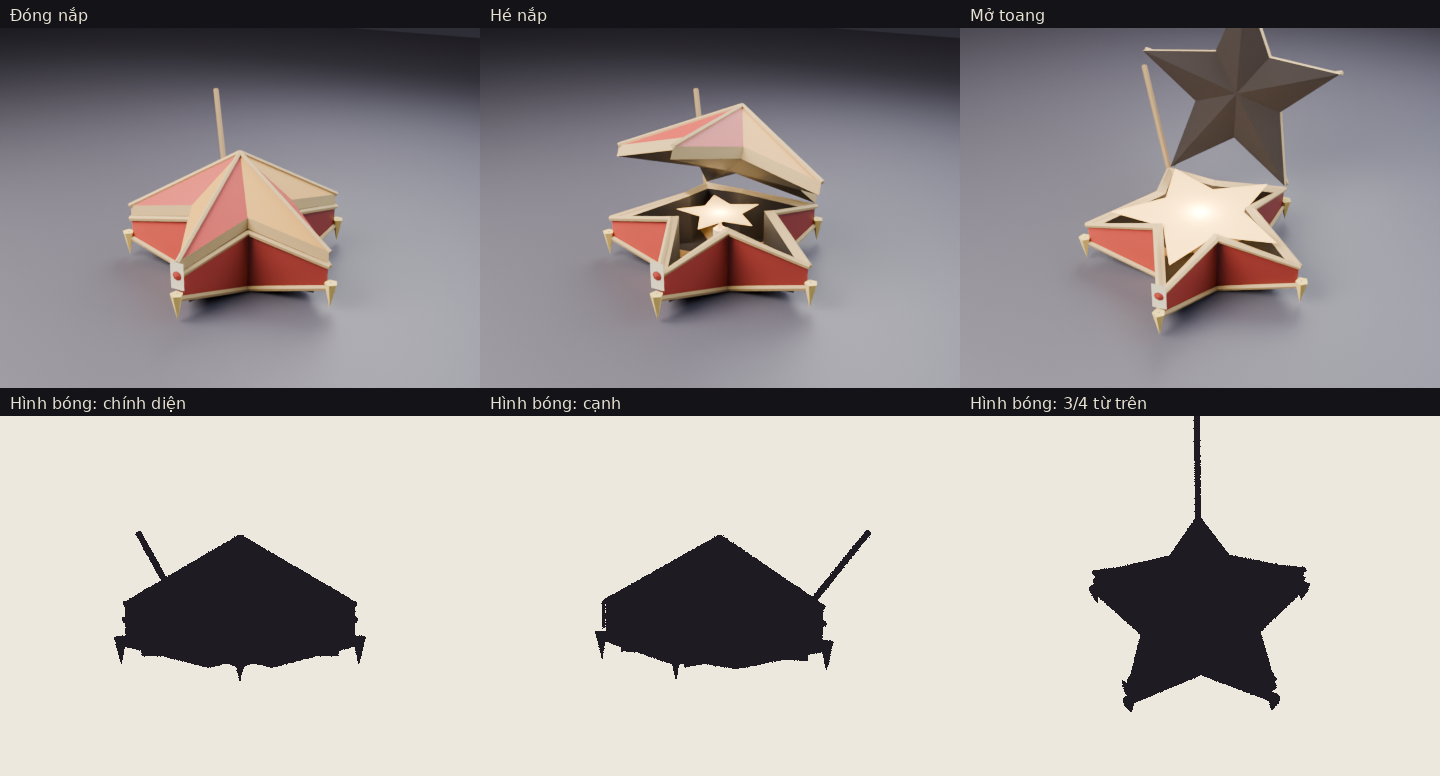
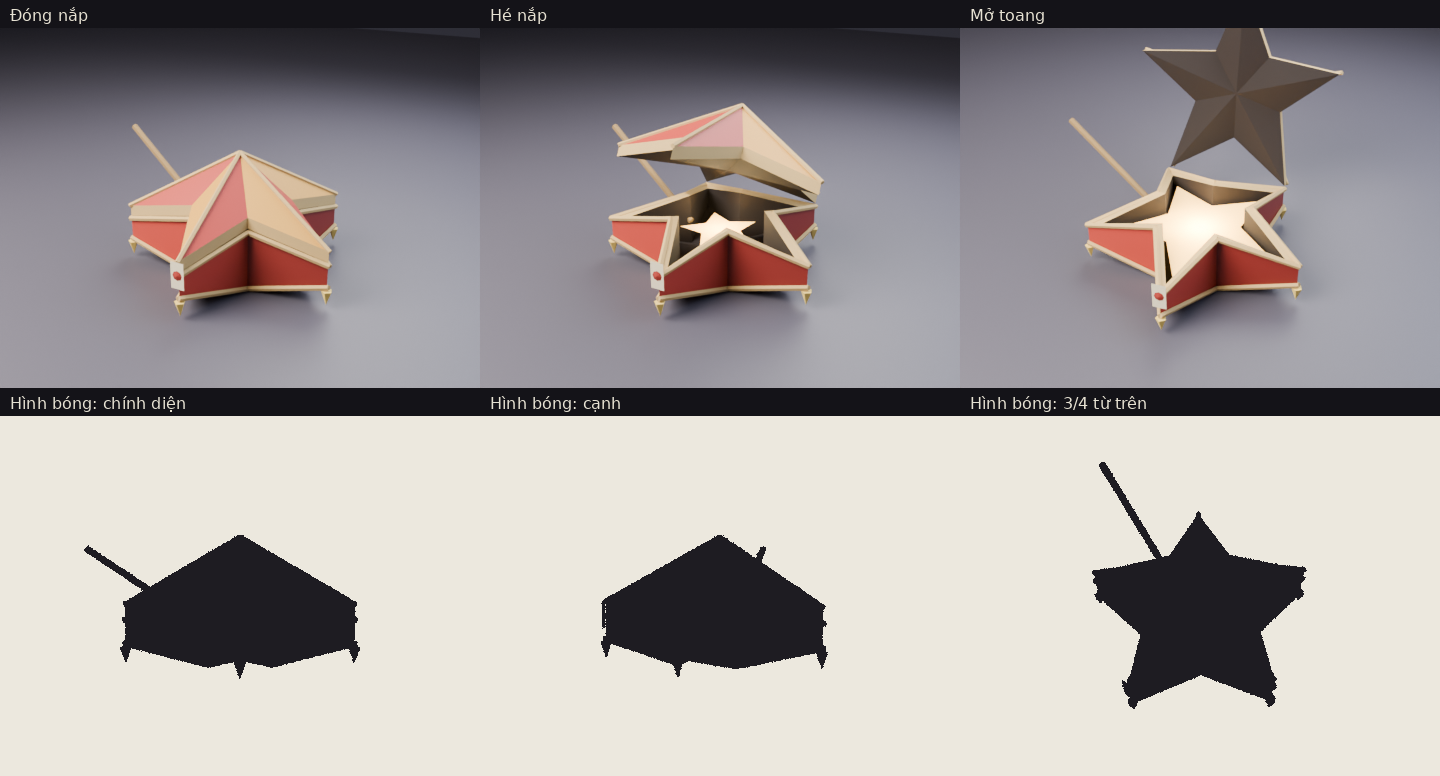
Rương Tuổi thơ: cán tre ở khe giữa hai mũi sao, sửa glow xuyên nắp, sàn và tua lòi đáy, bỏ phần thừa
Claude-Session: https://claude.ai/code/session_01QKQCdXUoJoGsy7AraJDU2m

diff --git a/Tools/Blender/make_chest_tuoi_tho.py b/Tools/Blender/make_chest_tuoi_tho.py
@@ -54,7 +54,7 @@ def star(r_out, r_in, z=0.0, zt=None):
     return pts
 
 
-def mesh_obj(name, build, material_slots):
+def mesh_obj(name, build):
     """build(bm, mi) tạo mặt; mi(name) trả chỉ số vật liệu."""
     me = bpy.data.meshes.new(name)
     bm = bmesh.new()
@@ -101,7 +101,7 @@ def build_body(bm, mi):
     top = ring(bm, star(R_OUT, R_IN, H_BODY, H_BODY - TIP_LIFT))
     k = (R_OUT - WALL * 2.2) / R_OUT
     itop = ring(bm, star(R_OUT * k, R_IN - WALL, H_BODY, H_BODY - TIP_LIFT))
-    ibot = ring(bm, star(R_OUT * k, R_IN - WALL, 0.025))
+    ibot = ring(bm, star(R_OUT * k, R_IN - WALL, 0.025, TIP_LIFT + 0.02))  # sàn không lòi ra dưới đầu cánh
     for i in range(10):  # tô xen kẽ hai sắc đỏ cho thấy nếp gấp giấy
         j = (i + 1) % 10
         f = bm.faces.new((bot[i], bot[j], top[j], top[i]))
@@ -178,24 +178,27 @@ def set_origin(o, p):
 bpy.ops.wm.read_factory_settings(use_empty=True)
 
 # ---- Body: thân sao + khung tre viền dưới/trên + tua giấy đầu cánh
-body = [mesh_obj("BodyShell", build_body, None)]
+body = [mesh_obj("BodyShell", build_body)]
 for z, zt in ((0.008, TIP_LIFT + 0.008), (H_BODY - 0.004, H_BODY - TIP_LIFT - 0.004)):
     pts = star(R_OUT + 0.004, R_IN + 0.004, z, zt)
     for i in range(10):
         body.append(stick(pts[i], pts[(i + 1) % 10], 0.007, "bamboo"))
-for i, p in enumerate(star(R_OUT, R_IN, H_BODY - TIP_LIFT)):
-    if i % 2 == 0:  # tua giấy vàng treo ở mỗi đầu cánh
-        d = Vector((p.x, p.y, 0)).normalized()
-        body.append(cone((p.x + d.x * 0.012, p.y + d.y * 0.012, TIP_LIFT - 0.01), 0.016, 0.07, "tassel",
-                         rot=(math.pi, 0, 0)))
-        body.append(stick((p.x, p.y, TIP_LIFT + 0.01), (p.x + d.x * 0.012, p.y + d.y * 0.012, TIP_LIFT + 0.025),
-                          0.003, "bamboo_dk", 4))
+for i, p in enumerate(star(R_OUT, R_IN, 0)):
+    if i % 2 == 0:  # tua giấy vàng treo dưới mỗi đầu cánh, không chạm sàn
+        body.append(cone((p.x, p.y, TIP_LIFT - 0.022), 0.014, 0.04, "tassel", rot=(math.pi, 0, 0)))
+body += [stick((0, 0, 0.025), (0, 0, 0.09), 0.018, "candle", 6), cone((0, 0, 0.1), 0.008, 0.025, "glow", 5)]
+# Cán tre cầm: buộc ở khe giữa hai mũi sao bên trái, chĩa chéo ra ngoài và lên (gắn thân, không vướng nắp)
+notch = star(R_OUT, R_IN, H_BODY * 0.55)[7]
+d = Vector((notch.x, notch.y, 0)).normalized()
+base = notch - d * 0.02
+body.append(stick(base, base + d * 0.34 + Vector((0, 0, 0.20)), 0.009, "bamboo_dk", 6))
+body.append(stick(base + d * 0.03 - Vector((0, 0, 0.012)), base + d * 0.03 + Vector((0, 0, 0.012)), 0.016, "tassel", 6))  # nút dây buộc
 body = join(body, "Body")
 
 # ---- Lid: chóp sao + gân tre
 z0 = H_BODY + 0.004
 apex = (0, 0, z0 + H_RIM + H_APEX)
-lid = [mesh_obj("LidShell", build_lid, None)]
+lid = [mesh_obj("LidShell", build_lid)]
 for i, p in enumerate(star(R_OUT + 0.003, R_IN + 0.003, z0 + H_RIM, z0 + H_RIM - TIP_LIFT)):
     if i % 2 == 0:
         lid.append(stick(p, apex, 0.006, "bamboo"))
@@ -203,22 +206,13 @@ lid = join(lid, "Lid")
 HINGE = (0, R_OUT * math.sin(math.radians(54)) + 0.003, H_BODY - TIP_LIFT)
 set_origin(lid, HINGE)
 
-# ---- Glow: ngôi sao phẳng phát sáng ở miệng + ngọn nến
+# ---- Glow: ngôi sao phẳng phát sáng, thấp hơn mép đầu cánh để không xuyên nắp
+ZG = H_BODY - TIP_LIFT - 0.012
 def build_glow(bm, mi):
-    cap(bm, ring(bm, star(R_OUT * 0.78, R_IN * 0.85, H_BODY - 0.012)), mi("glow"))
-glow = mesh_obj("Glow", build_glow, None)
-set_origin(glow, (0, 0, H_BODY - 0.012))
+    cap(bm, ring(bm, star(R_OUT * 0.72, R_IN * 0.8, ZG)), mi("glow"))
+glow = mesh_obj("Glow", build_glow)
+set_origin(glow, (0, 0, ZG))
 
-body2 = [body, stick((0, 0, 0.025), (0, 0, 0.11), 0.018, "candle", 6), cone((0, 0, 0.125), 0.008, 0.03, "glow", 5)]
-# Cán tre cầm như đèn thật: buộc vào đầu cánh sau bên trái, chĩa chéo ra ngoài và lên (gắn thân, nắp mở tự do)
-tip = star(R_OUT, R_IN, H_BODY / 2)[6]
-d = Vector((tip.x, tip.y, 0)).normalized()
-z_mid = (TIP_LIFT + H_BODY - TIP_LIFT) / 2
-base = Vector((tip.x, tip.y, z_mid)) - d * 0.03
-end = base + d * 0.30 + Vector((0, 0, 0.26))
-body2.append(stick(base, end, 0.009, "bamboo_dk", 6))
-body2.append(stick(base + d * 0.015 - Vector((0, 0, 0.012)), base + d * 0.015 + Vector((0, 0, 0.012)), 0.016, "tassel", 6))  # nút dây buộc
-body = join(body2, "Body")
 
 # ---- Seal: tem giấy dán ngang khe nắp ở mũi cánh trước
 ZS = H_BODY - TIP_LIFT

diff --git a/Docs/Art/BanGiao3D.md b/Docs/Art/BanGiao3D.md
@@ -195,7 +195,7 @@ Tham số: độ cao đường nối nắp theo đơn vị nguồn (0,03, nằm 
 
 `Assets/_Project/Art/Chests/Chest_TuoiTho.glb`: **bản thử tạm**, hình đèn ông sao năm cánh nằm ngửa (ý tưởng: [ruong-tuoi-tho](../../docs/superpowers/specs/2026-11-24-ruong-tuoi-tho-design.md)). **Chưa gán ID hay chủ đề vào dữ liệu game.** Dựng hoàn toàn bằng script, không mô hình ngoài, không texture ảnh.
 
-- Số tam giác: **714** (Body 568, Lid 120, Glow 10, Seal 16). Cao khoảng 0,49 m tính cả cán tre (thân và chóp 0,32 m), rộng khoảng 0,6 m.
-- Lớp: root `Chest_TuoiTho` → `Body` (thân sao rỗng giấy đỏ, khung tre, tua vàng ở đầu cánh, cây nến bên trong, cán tre buộc ở đầu cánh sau bên trái chĩa chéo ra ngoài như đèn thật), `Lid` (chóp sao đỏ vàng, gân tre; **gốc ở bản lề sau**, xoay quanh X, mở ngửa ra sau), `Glow` (ngôi sao phát sáng ở miệng, ẩn bằng scale), `Seal` (tem giấy dán ngang khe nắp ở cánh trước, mặt trước -Y). Không có `Binding`, `Key`.
+- Số tam giác: **654** (Body 508, Lid 120, Glow 10, Seal 16). Cao khoảng 0,49 m tính cả cán tre (thân và chóp 0,32 m), rộng khoảng 0,6 m.
+- Lớp: root `Chest_TuoiTho` → `Body` (thân sao rỗng giấy đỏ, khung tre, tua vàng ở đầu cánh, cây nến bên trong, cán tre buộc ở khe giữa hai mũi sao bên trái, chĩa chéo ra ngoài và lên), `Lid` (chóp sao đỏ vàng, gân tre; **gốc ở bản lề sau**, xoay quanh X, mở ngửa ra sau), `Glow` (ngôi sao phát sáng ở miệng, ẩn bằng scale), `Seal` (tem giấy dán ngang khe nắp ở cánh trước, mặt trước -Y). Không có `Binding`, `Key`.
 - Chạy: `pip install bpy pillow`, rồi `python Tools/Blender/make_chest_tuoi_tho.py` (tham số tuỳ chọn `-- <file.glb>`). Ảnh xem trước Cycles: `python Tools/Blender/render_chest_tuoi_tho_preview.py -- 48 480` → `Art/Source/render_chest_tuoi_tho_open.png` (đóng, hé, mở toang, 3 góc hình bóng).
 - Ảnh là dựng ngoại tuyến, **chưa chạy trong Unity**; chưa kiểm chiều mở nắp (đổi `lidOpenSign` nếu ngược).

diff --git a/docs/superpowers/specs/2026-11-24-ruong-tuoi-tho-design.md b/docs/superpowers/specs/2026-11-24-ruong-tuoi-tho-design.md
@@ -12,7 +12,7 @@ Ngày 2026-11-24. Bản tạm dựng bằng Blender, chưa phải bản chốt; 
 
 - Năm mũi nhọn là hình bóng không rương nào có (H1, H2, H3, RD và Golden đều là khối hộp; các phiên khác đang dùng thùng, xô, trụ tròn, thúng, trống). Lon sữa và hũ kẹo đều là trụ tròn, dễ trùng thùng rum, xô, trống.
 - Đèn ông sao là biểu tượng Tuổi thơ dễ nhận nhất, lại chính là món Rất hiếm trong rương, nên tự cài cảnh "rương là món đồ".
-- Cán tre buộc vào một đầu cánh sau, chĩa chéo ra ngoài như cách cầm đèn thật (gắn thân, không theo nắp). Nến bên trong chính là quầng sáng Glow.
+- Cán tre buộc ở khe giữa hai mũi sao bên trái, chĩa chéo ra ngoài và lên (gắn thân, không theo nắp). Nến bên trong chính là quầng sáng Glow.
 
 ## Cách nắp mở
 
